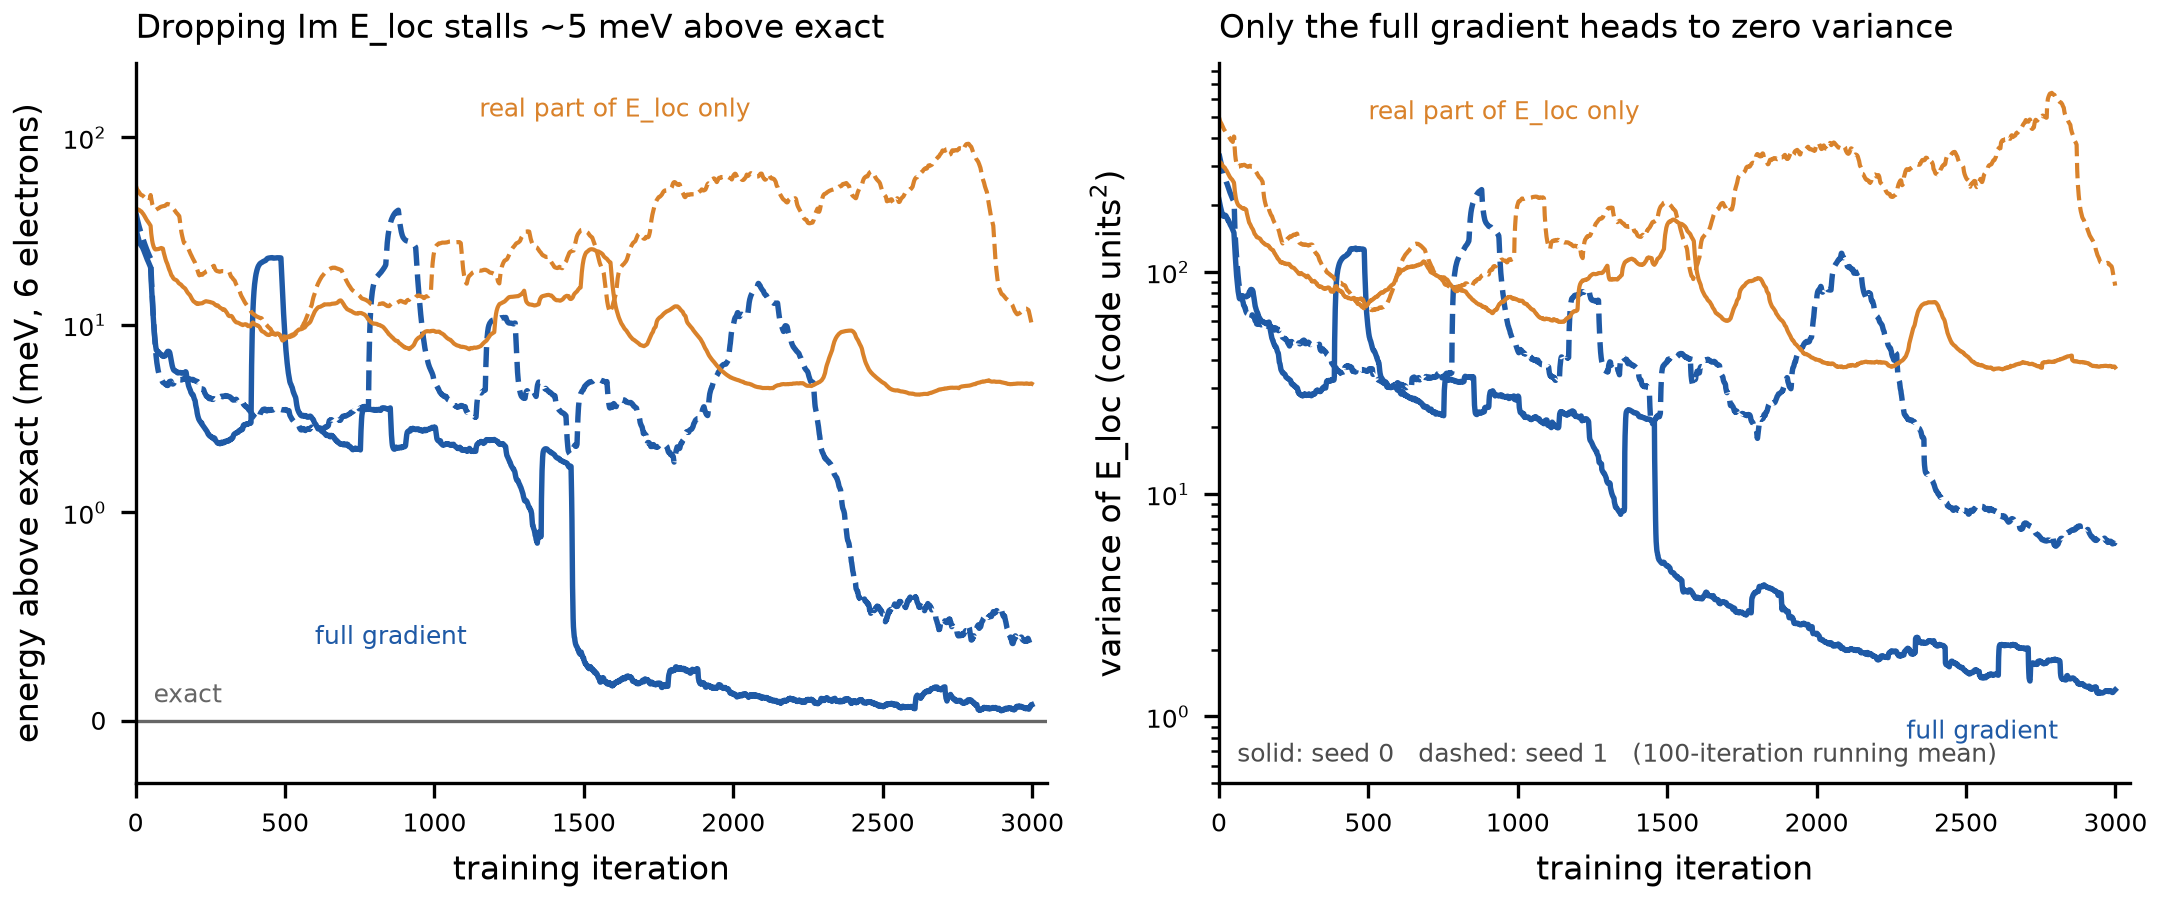
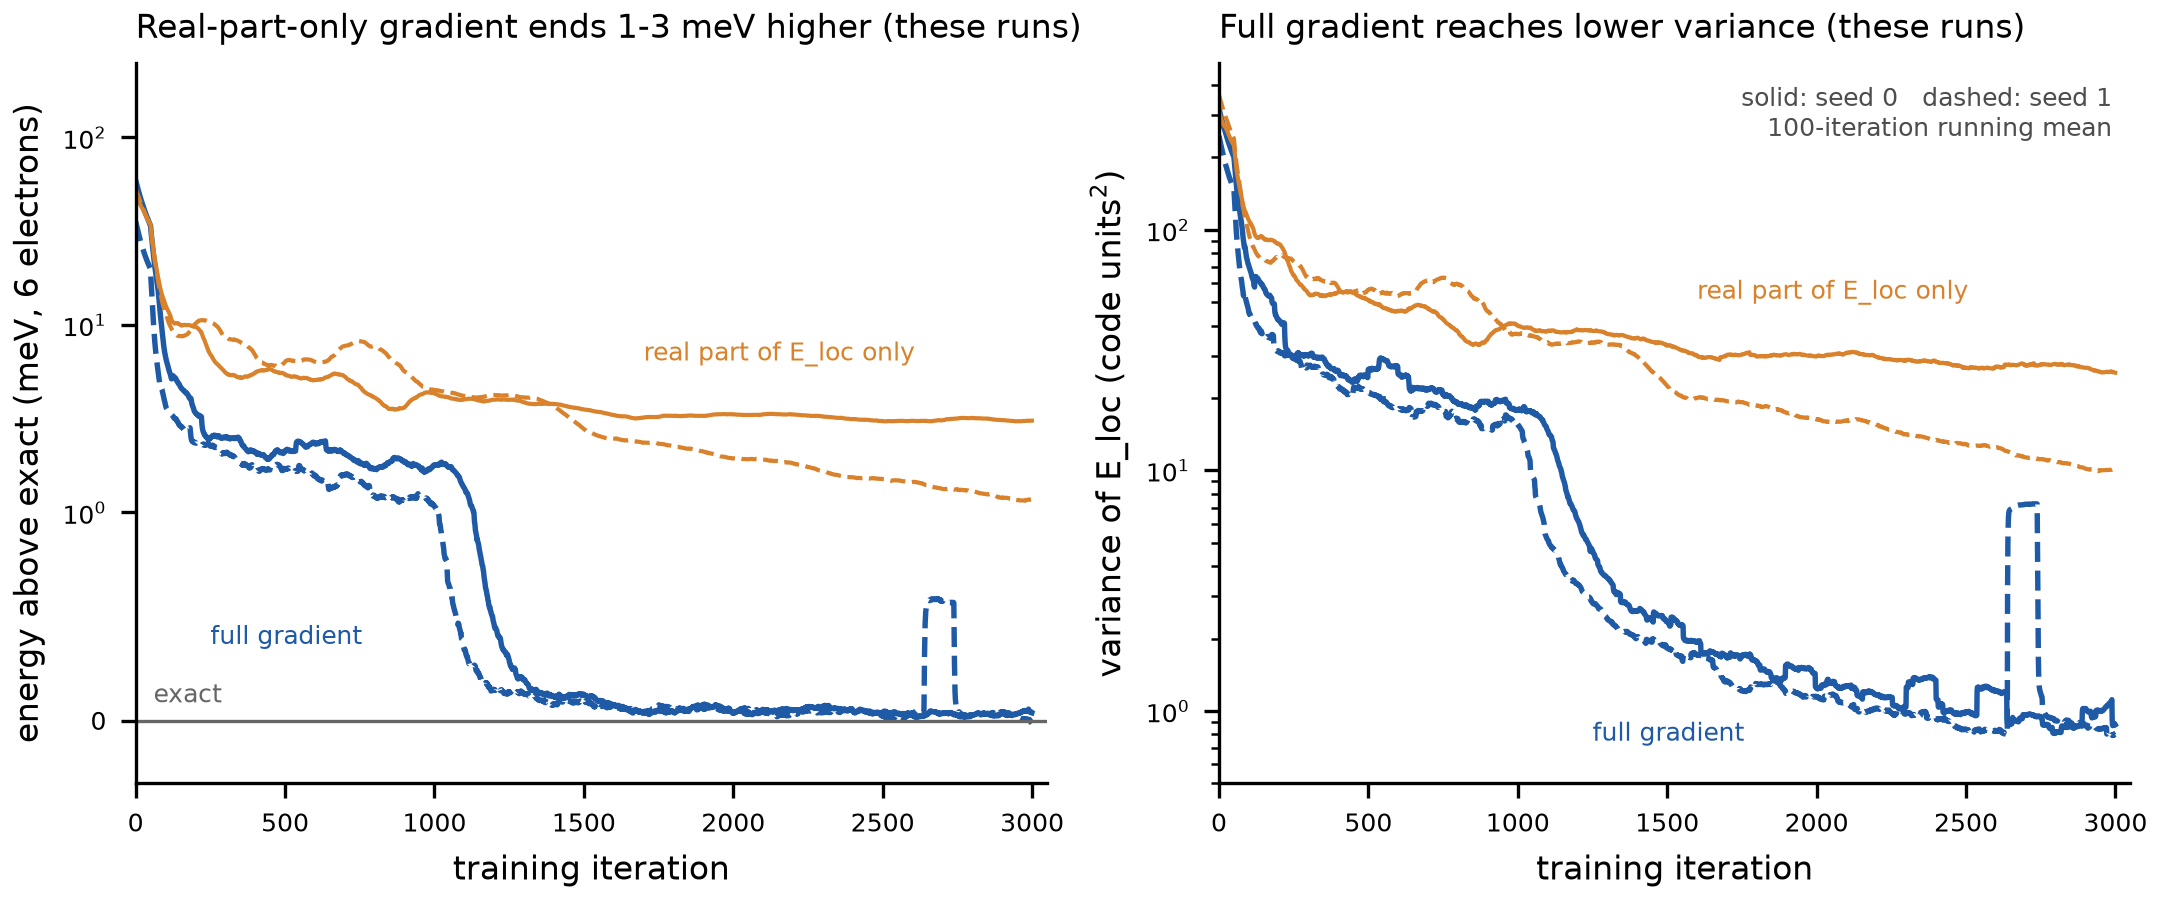
Stage 6 rerun after review: real-only reruns, figure retitled 'these runs', reproduction_map item 7 revised (in progress, not yet confirmed)
Seed-1 attribution (meV above exact): neither fix +0.508, centring only +0.116, cap only +0.017, both +0.036. Real-only with new cap: +3.09 (seed 0), +1.12 (seed 1).

diff --git a/learn/stage06_kfac/plot_training.py b/learn/stage06_kfac/plot_training.py
@@ -42,24 +42,24 @@ ax_e.set_yscale("symlog", linthresh=1.0)
 ax_e.set_ylim(-0.3, 250)
 ax_e.set_xlabel("training iteration")
 ax_e.set_ylabel("energy above exact (meV, 6 electrons)")
-ax_e.set_title("Dropping Im E_loc stalls ~5 meV above exact")
+ax_e.set_title("Real-part-only gradient ends 1-3 meV higher (these runs)")
 
 ax_v.set_yscale("log")
 ax_v.set_xlabel("training iteration")
 ax_v.set_ylabel("variance of E_loc (code units$^2$)")
-ax_v.set_title("Only the full gradient heads to zero variance")
+ax_v.set_title("Full gradient reaches lower variance (these runs)")
 
 for ax in (ax_e, ax_v):
     ax.set_xlim(0, 3050)
 
 # direct labels, placed in empty regions of each panel (checked by eye on the render)
-ax_e.text(1150, 140, NAMES["real_only"], color=COLORS["real_only"], fontsize=6, ha="left", va="center")
-ax_e.text(600, 0.4, NAMES["full"], color=COLORS["full"], fontsize=6, ha="left", va="center")
+ax_e.text(1700, 7.0, NAMES["real_only"], color=COLORS["real_only"], fontsize=6, ha="left", va="center")
+ax_e.text(250, 0.4, NAMES["full"], color=COLORS["full"], fontsize=6, ha="left", va="center")
 ax_v.set_ylim(0.5, None)                      # a clear band below the curves for labels
-ax_v.text(500, 520, NAMES["real_only"], color=COLORS["real_only"], fontsize=6, ha="left", va="center")
-ax_v.text(2300, 0.85, NAMES["full"], color=COLORS["full"], fontsize=6, ha="left", va="center")
-ax_v.text(0.02, 0.03, "solid: seed 0   dashed: seed 1   (100-iteration running mean)",
-          transform=ax_v.transAxes, fontsize=6, color="0.3")
+ax_v.text(1600, 55, NAMES["real_only"], color=COLORS["real_only"], fontsize=6, ha="left", va="center")
+ax_v.text(1250, 0.8, NAMES["full"], color=COLORS["full"], fontsize=6, ha="left", va="center")
+ax_v.text(0.98, 0.97, "solid: seed 0   dashed: seed 1\n100-iteration running mean",
+          transform=ax_v.transAxes, fontsize=6, color="0.3", ha="right", va="top")
 
 out = RUNS / "stage06_training.png"
 fig.savefig(out, dpi=300)

diff --git a/docs/reproduction_map.md b/docs/reproduction_map.md
@@ -146,7 +146,7 @@ These matter, because the repo is described as an *improved* version and its def
 4. **Architecture and training budget.** Paper Table II: 3 layers, 6 heads, 1 perceptron per layer, batch 4096, 1.5 × 10⁵ iterations. Moiré config: 4 layers, 4 heads, 2 perceptrons per layer, batch 1024, 2 × 10⁵ iterations. Parameter counts from the Appendix-C formula generalised to n_perc perceptrons per layer: repo net 102,144 (N = 6) / 108,288 (N = 18); Table II net 89,536 / 95,680.
 5. Matmul precision is forced to float32 (`jax_default_matmul_precision`), kinetic energy via `folx` forward Laplacian, `jastrow = "NONE"`, null envelope, `complex = True`, `clip_local_energy = 5.0`, KFAC damping and norm constraint both 1 × 10⁻³ — these all match the paper.
 6. Minor: the reciprocal-space Ewald sum uses `jnp.cos` rather than a complex phase (valid because the G-set is inversion-symmetric), and `madelung_recip` contains a `- 0*(...)` dead term. Neither is a bug, but an independent check of ξ_M is still worth doing since it enters every energy as N ξ_M/2.
-7. **The released kinetic-energy path drops Im E_loc from the gradient (found in Stage 6, 2026-09-30).** The folx kinetic path that the moire config uses (`run_2deg_triangular_potential.py` line 137) returns `jnp.real` of the local energy. The complex branch of `loss.py` is itself the exact estimator dE/dtheta = 2 Re<(E_loc - E) conj(O)>, with O = d log|Psi| + i d(phase). Fed a real E_loc, it silently loses the term 2<Im(E_loc) d(phase)/dtheta>. What is left is 2<(Re E_loc - E) d log|Psi|/dtheta>, so phase derivatives drop out of the gradient entirely. The paper (p. 6) says KFAC "operates only on the absolute magnitude of the wave function, while the phase is neglected", so the metric reduces to the Fisher matrix. It does not say explicitly whether the gradient is restricted the same way. In the released code it is. The energy estimate itself is unaffected (it averages Re E_loc, and Im E_loc averages to zero for a Hermitian H), so reported energies remain variational upper bounds. The restriction can only change which state the optimiser reaches. Measured in `learn/stage06_kfac`: in a 1-electron grid-quadrature test with a complex Psi, the real-only gradient is 69% off the exact gradient (agreement to 1e-14 when Psi is real). In training (6 electrons, 9 sites, moire potential without Coulomb, 2,624-parameter SlaterNet with D = 1, exact SR with the full quantum geometric tensor, 3,000 iterations, 2 seeds), the full gradient ended +0.06 / +0.51 meV above the exact non-interacting energy and the real-only gradient +5.3 / +5.9 meV. Not shown yet: whether it matters at the authors' scale (KFAC with the Fisher metric, Coulomb, ~1e5-parameter nets, 2e5 iterations). Stage 8 test: rerun the Fig. 5 system with the complex E_loc kept, via either the 'default' kinetic path or the folx path with `jnp.real` removed. Check the chosen path's imaginary part for completeness first.
+7. **The released kinetic-energy path drops Im E_loc from the gradient (found in Stage 6, 2026-09-30; revised 2026-10-01 after an external review).** The folx kinetic path that the moire config uses (`run_2deg_triangular_potential.py` line 137) returns `jnp.real` of the local energy. The complex branch of `loss.py` exists in two forms. With clipping on (`clip_local_energy > 0`; the moire config uses 5.0) it computes the exact estimator 2 Re<(E_loc - Re E_mean) conj(O)>, with O = d log|Psi| + i d(phase) (verified numerically to 1e-16). With clipping off it counts the Im E_loc term twice. That code is inherited unchanged from DeepMind FermiNet (c4312c3, loss.py lines 232/269/272), and the moire config does not reach it. Fed a real E_loc, both forms reduce to 2<(Re E_loc - E) d log|Psi|/dtheta>: the term 2<Im E_loc d(phase)/dtheta> is lost, and phase derivatives drop out of the gradient entirely. The paper (p. 6) says KFAC "operates only on the absolute magnitude of the wave function, while the phase is neglected", so the metric reduces to the Fisher matrix. It does not say explicitly whether the gradient is restricted the same way. In the released code it is. The energy estimator is unaffected (it averages Re E_loc, and the exact average of Im E_loc is zero for a Hermitian H): the exact energy of the trained Psi is still a variational upper bound, though a finite Monte Carlo estimate can fluctuate below it. The restriction can only change which state the optimiser reaches. Measured in `learn/stage06_kfac`: in a 1-electron grid-quadrature test with a complex Psi, the real-only gradient and the clip-off branch with complex E_loc are both 69% off the exact gradient; the clip-on branch with complex E_loc agrees to 1.6e-14; with a real Psi all forms agree to 1.7e-14. In training (6 electrons, 9 sites, moire potential without Coulomb, 2,624-parameter SlaterNet with D = 1, exact SR with the full quantum geometric tensor, kfac-jax-style norm constraint, 3,000 iterations), the energy above the exact non-interacting value in these runs was, in meV (approximate errors): full gradient +0.018 +- 0.023 (seed 0) and +0.036 +- 0.025 (seed 1); real part only +3.087 +- 0.033 (seed 0) and +1.124 +- 0.023 (seed 1). Not shown: whether it matters at the authors' scale (KFAC with the Fisher metric, Coulomb, ~1e5-parameter nets, 2e5 iterations) or under other optimiser settings. Stage 8 test: rerun the Fig. 5 system with the complex E_loc kept, via either the 'default' kinetic path or the folx path with `jnp.real` removed. Check the chosen path's imaginary part for completeness first.
 
 ## 13. Revised reproduction path
 

diff --git a/docs/code_map.md b/docs/code_map.md
@@ -26,7 +26,7 @@ Caveat: that is *today's* upstream, not the commit PeriodicWave forked from, so 
 | `mcmc.py` | modified | Metropolis–Hastings walkers | 4 |
 | `hamiltonian.py` | modified | kinetic-energy machinery | 4 |
 | `pbc/hamiltonian.py` | modified (183 lines added) | 2D Ewald Coulomb, moiré potential, local energy via folx (folx path returns Re E_loc only: reproduction_map §12 item 7) | 4, 6, 7 |
-| `loss.py` | modified | VMC energy and gradient estimator, local-energy clipping (complex branch is the exact estimator; verified in learn/stage06_kfac) | 4, 6 |
+| `loss.py` | modified | VMC energy and gradient estimator, local-energy clipping (complex branch: exact with clipping on, counts the phase term twice with clipping off; verified in learn/stage06_kfac) | 4, 6 |
 | `curvature_tags_and_blocks.py` | modified (2 lines) | registers layers with KFAC | 6 |
 | `train.py` | modified | the optimisation loop | 6, 8 |
 | `base_config.py` | modified | default hyperparameters | 8 |
